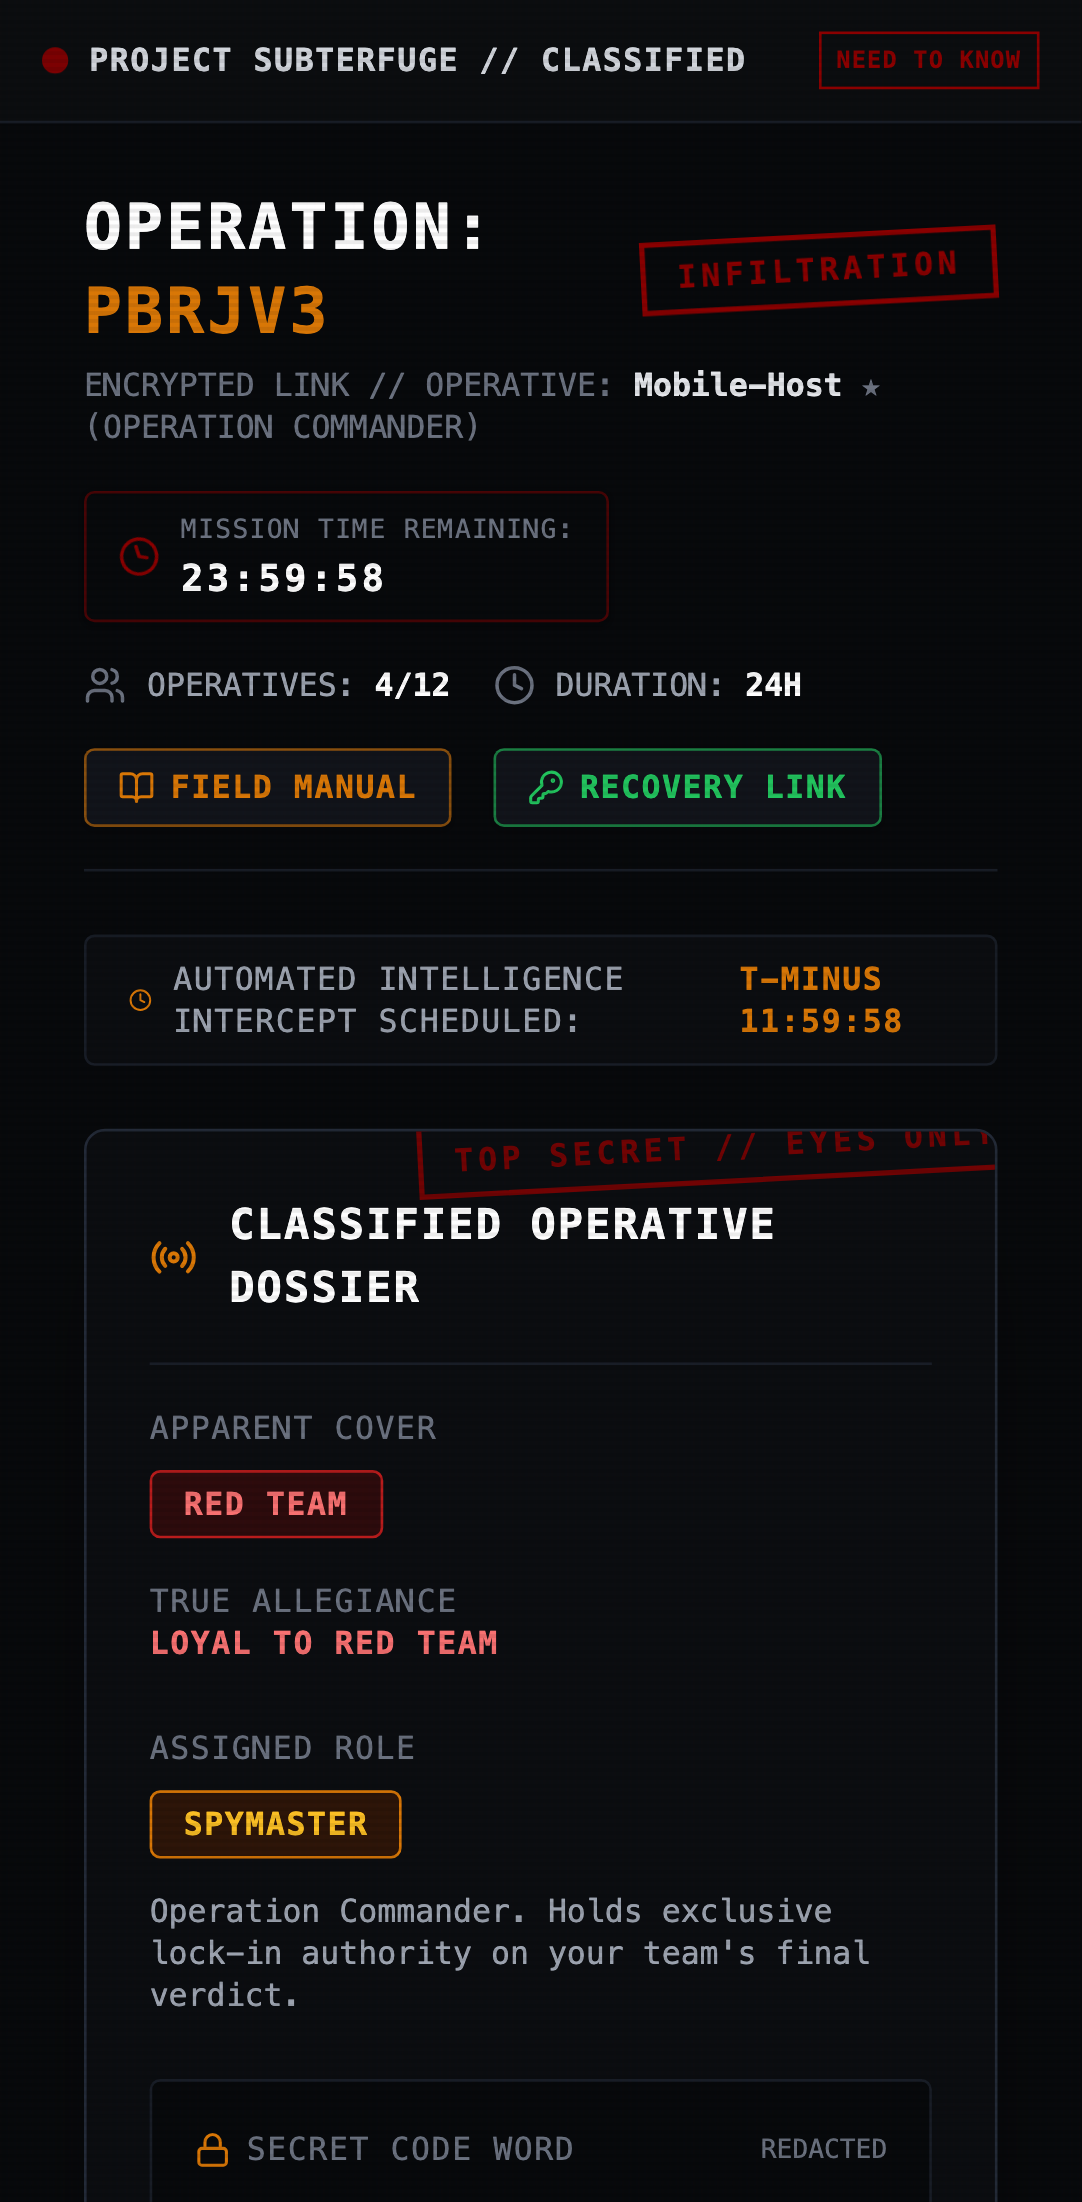
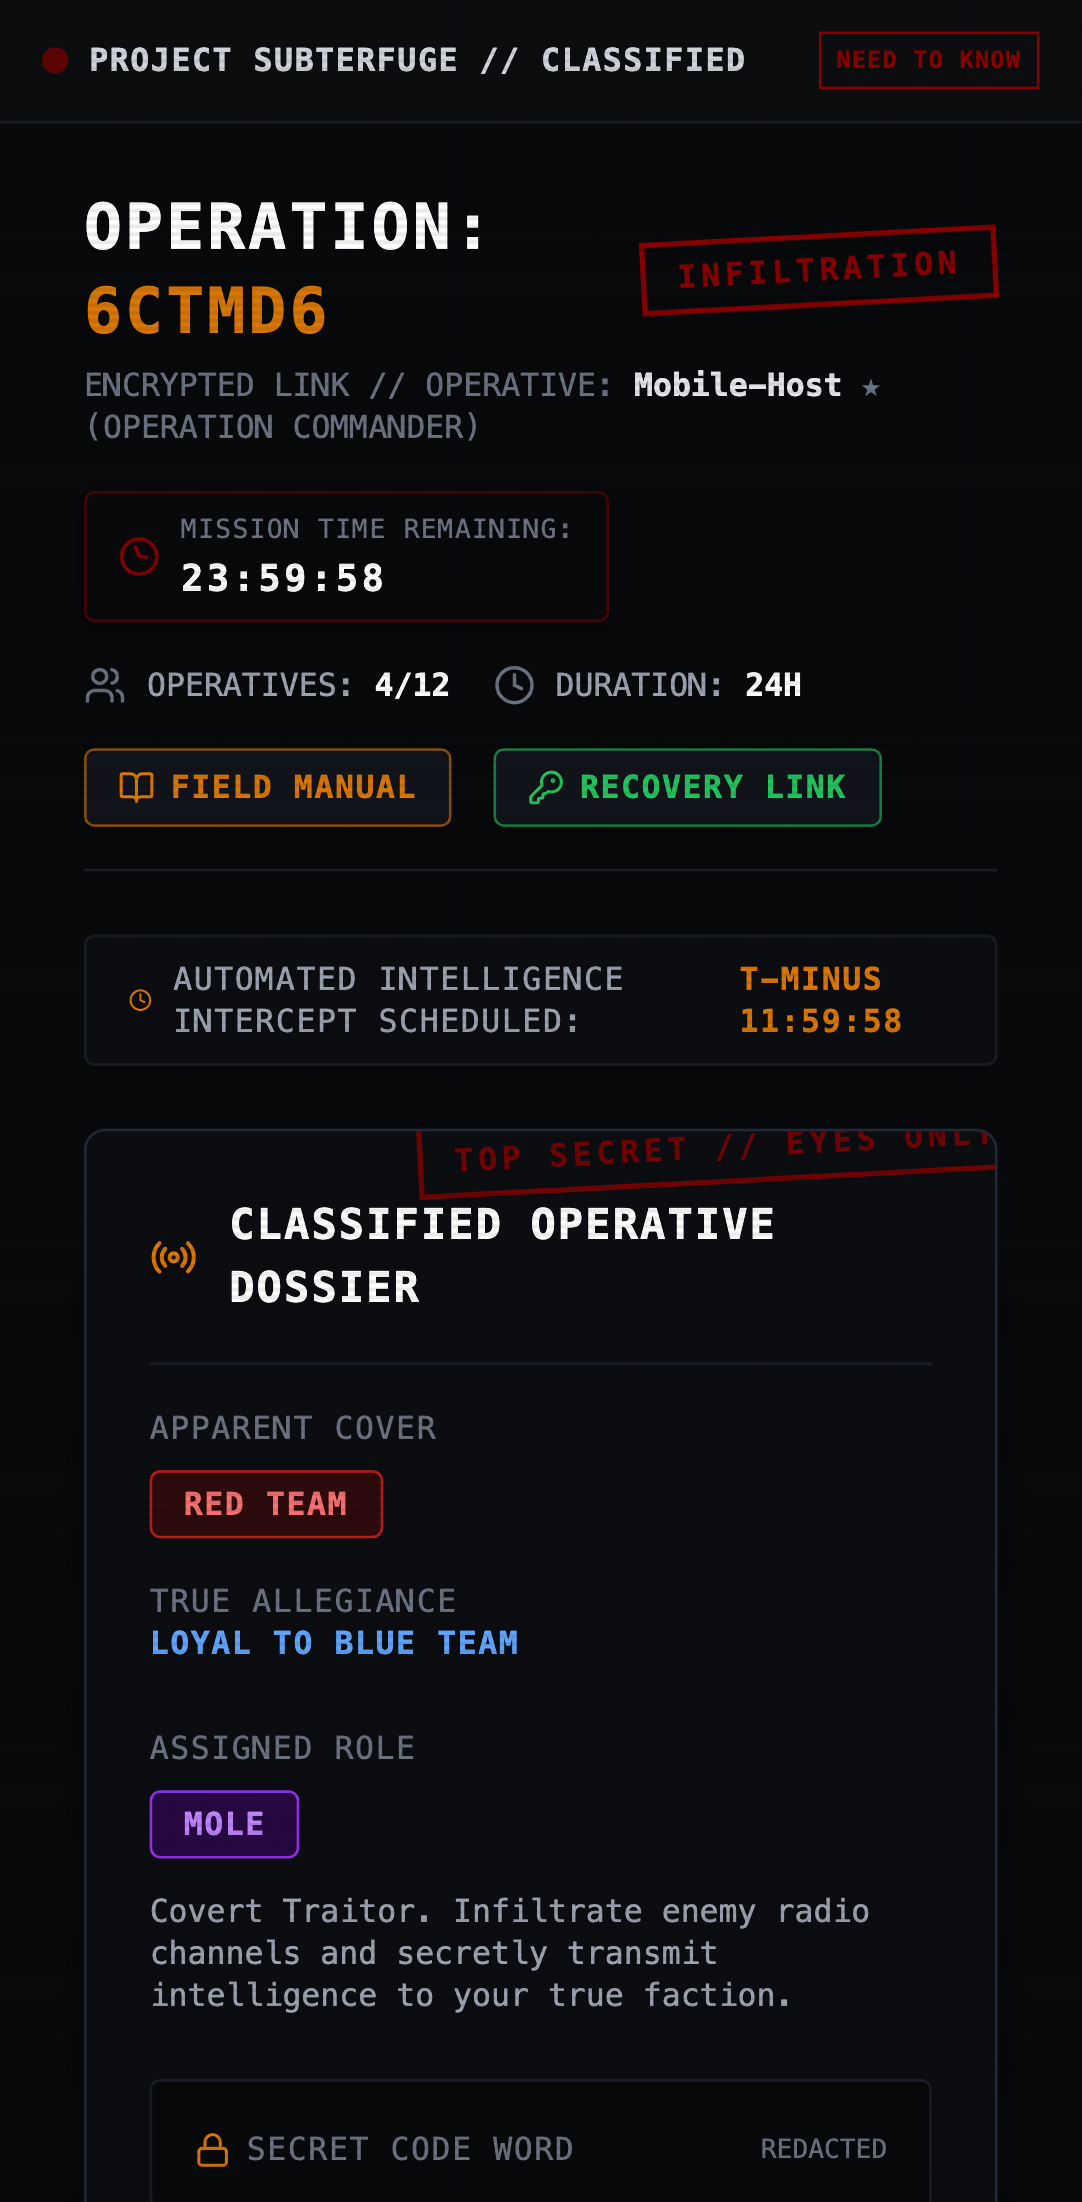
feat(mole): enable universal mole verification across opposing factions and restrict same-faction challenges

diff --git a/src/app/room/[code]/page.tsx b/src/app/room/[code]/page.tsx
@@ -2434,32 +2434,34 @@ export default function RoomPage() {
                   </div>
 
                   <div className="flex items-center gap-2">
-                    {selectedPeerId && gameState?.verifiedAssets?.includes(selectedPeerId) ? (
-                      <span
-                        id="confirmed-asset-badge"
-                        className="flex items-center gap-1 text-[11px] bg-emerald-950 border border-emerald-500 text-emerald-300 px-2.5 py-1.5 rounded font-bold tracking-wider uppercase"
-                      >
-                        <span className="w-2 h-2 rounded-full bg-emerald-400 animate-pulse"></span>
-                        CONFIRMED ASSET
-                      </span>
-                    ) : selectedPeerId && gameState?.challengeStatuses?.[selectedPeerId] === "PENDING" ? (
-                      <span
-                        id="challenge-pending-badge"
-                        className="text-[11px] bg-amber-950 border border-amber-500/50 text-amber-300 px-2.5 py-1.5 rounded uppercase tracking-wider font-mono animate-pulse"
-                      >
-                        AWAITING RESPONSE...
-                      </span>
-                    ) : (
-                      <button
-                        id="verify-credentials-btn"
-                        onClick={handleInitiateChallenge}
-                        disabled={isChallenging || !selectedPeerId}
-                        className="flex items-center gap-1 text-[11px] bg-carbon-900 hover:bg-carbon-800 text-classified-amber border border-classified-amber/50 px-2.5 py-1.5 rounded font-bold tracking-wider uppercase transition-colors min-h-[36px] active:scale-95 cursor-pointer"
-                      >
-                        <ShieldAlert className="w-3.5 h-3.5 text-classified-amber" />
-                        {isChallenging ? "CHALLENGING..." : "VERIFY OPERATIVE CREDENTIALS"}
-                      </button>
-                    )}
+                    {selectedPeerId && activePeer && activePeer.apparentTeam !== self.apparentTeam ? (
+                      gameState?.verifiedAssets?.includes(selectedPeerId) ? (
+                        <span
+                          id="confirmed-asset-badge"
+                          className="flex items-center gap-1 text-[11px] bg-emerald-950 border border-emerald-500 text-emerald-300 px-2.5 py-1.5 rounded font-bold tracking-wider uppercase"
+                        >
+                          <span className="w-2 h-2 rounded-full bg-emerald-400 animate-pulse"></span>
+                          CONFIRMED ASSET
+                        </span>
+                      ) : gameState?.challengeStatuses?.[selectedPeerId] === "PENDING" ? (
+                        <span
+                          id="challenge-pending-badge"
+                          className="text-[11px] bg-amber-950 border border-amber-500/50 text-amber-300 px-2.5 py-1.5 rounded uppercase tracking-wider font-mono animate-pulse"
+                        >
+                          AWAITING RESPONSE...
+                        </span>
+                      ) : (
+                        <button
+                          id="verify-credentials-btn"
+                          onClick={handleInitiateChallenge}
+                          disabled={isChallenging || !selectedPeerId}
+                          className="flex items-center gap-1 text-[11px] bg-carbon-900 hover:bg-carbon-800 text-classified-amber border border-classified-amber/50 px-2.5 py-1.5 rounded font-bold tracking-wider uppercase transition-colors min-h-[36px] active:scale-95 cursor-pointer"
+                        >
+                          <ShieldAlert className="w-3.5 h-3.5 text-classified-amber" />
+                          {isChallenging ? "CHALLENGING..." : "VERIFY OPERATIVE CREDENTIALS"}
+                        </button>
+                      )
+                    ) : null}
 
                     <button
                       id="burn-dm-btn"
@@ -2746,6 +2748,9 @@ export default function RoomPage() {
                   <li>
                     <strong className="text-white">50% Midpoint Theme Intercept:</strong> Halfway through the mission timeline, Central Command declassifies the{" "}
                     <span className="text-classified-amber font-bold">Secret Theme</span> uniting all genuine words. Cross-reference all claimed words against this theme to identify false leads and expose liars.
+                  </li>
+                  <li>
+                    <strong className="text-white">Universal Mole Verification:</strong> Any operative (Field Agent or Spymaster) can request clearance verification in 1-on-1 Direct Line chats with operatives on the opposing apparent team. If they are your faction&apos;s embedded double-agent, they can confirm their allegiance to establish an authenticated covert line and receive a permanent Confirmed Asset receipt.
                   </li>
                   <li>
                     <strong className="text-white">Verdict Deliberation & Scoring (+1 / 0):</strong> In the final 60-minute Verdict phase, propose candidate words on the collaborative board and upvote nominations. Teams score{" "}

diff --git a/tests/e2e/slice4-mole-protocol.spec.ts b/tests/e2e/slice4-mole-protocol.spec.ts
@@ -36,7 +36,8 @@ test.describe("Slice 4: Covert Mole Protocol & Targeted Clearance Handshake", ()
     // 2. Identify roles across operatives
     let redMoleIdx = -1;
     let redAgentIdx = -1;
-    let blueRequesterIdx = -1;
+    let blueAgentIdx = -1;
+    let otherBlueIdx = -1;
 
     for (let i = 0; i < 6; i++) {
       const dossier = await harness.getPlayerDossier(i);
@@ -44,26 +45,38 @@ test.describe("Slice 4: Covert Mole Protocol & Targeted Clearance Handshake", ()
         redMoleIdx = i;
       } else if (dossier.apparentTeam === "RED" && dossier.actualTeam === "RED" && dossier.role === "AGENT") {
         redAgentIdx = i;
-      } else if (dossier.apparentTeam === "BLUE" && dossier.actualTeam === "BLUE") {
-        blueRequesterIdx = i;
+      } else if (dossier.apparentTeam === "BLUE" && dossier.actualTeam === "BLUE" && dossier.role === "AGENT") {
+        blueAgentIdx = i;
       }
     }
 
     expect(redMoleIdx).toBeGreaterThanOrEqual(0);
     expect(redAgentIdx).toBeGreaterThanOrEqual(0);
-    expect(blueRequesterIdx).toBeGreaterThanOrEqual(0);
+    expect(blueAgentIdx).toBeGreaterThanOrEqual(0);
 
-    // 3. SUCCESSFUL HANDSHAKE: Blue Operative challenges Red Mole
+    // Find another operative on Blue apparent team
+    for (let i = 0; i < 6; i++) {
+      if (i !== blueAgentIdx) {
+        const dossier = await harness.getPlayerDossier(i);
+        if (dossier.apparentTeam === "BLUE") {
+          otherBlueIdx = i;
+          break;
+        }
+      }
+    }
+    expect(otherBlueIdx).toBeGreaterThanOrEqual(0);
+
+    // 3. SUCCESSFUL HANDSHAKE: Blue Field Agent (Non-Spymaster) challenges Red Mole on opposing cover
     // Blue operative switches to DM tab and selects Red Mole
-    await harness.switchTab(blueRequesterIdx, "DM");
-    await harness.selectDMPeer(blueRequesterIdx, redMoleIdx);
+    await harness.switchTab(blueAgentIdx, "DM");
+    await harness.selectDMPeer(blueAgentIdx, redMoleIdx);
 
-    // Initial state: Verify button is visible
-    const requesterPage = harness.sessions[blueRequesterIdx].page;
+    // Initial state: Verify button is visible for non-spymaster Field Agent
+    const requesterPage = harness.sessions[blueAgentIdx].page;
     await expect(requesterPage.locator("#verify-credentials-btn")).toBeVisible();
 
     // Blue operative initiates clearance challenge
-    await harness.initiateClearanceChallenge(blueRequesterIdx);
+    await harness.initiateClearanceChallenge(blueAgentIdx);
 
     // Blue operative sees awaiting response
     await expect(requesterPage.locator("#challenge-pending-badge")).toBeVisible({ timeout: 5000 });
@@ -72,7 +85,7 @@ test.describe("Slice 4: Covert Mole Protocol & Targeted Clearance Handshake", ()
     const molePage = harness.sessions[redMoleIdx].page;
     await expect(molePage.locator("#clearance-challenge-modal")).toBeVisible({ timeout: 10000 });
     await expect(molePage.locator("#clearance-challenge-modal")).toContainText(
-      harness.sessions[blueRequesterIdx].callsign
+      harness.sessions[blueAgentIdx].callsign
     );
 
     // Red Mole submits counter-signature
@@ -90,18 +103,18 @@ test.describe("Slice 4: Covert Mole Protocol & Targeted Clearance Handshake", ()
     await expect(molePage.locator("#confirmed-asset-badge")).not.toBeVisible();
 
     // Requester screen now has permanent cryptographic asset receipt
-    await harness.expectConfirmedAssetReceipt(blueRequesterIdx);
+    await harness.expectConfirmedAssetReceipt(blueAgentIdx);
     await expect(requesterPage.locator("#confirmed-asset-badge")).toBeVisible();
     await expect(requesterPage.locator("#confirmed-asset-receipt")).toContainText(
       harness.sessions[redMoleIdx].callsign
     );
 
-    // 4. DENIED HANDSHAKE: Blue Operative challenges Loyal Red Agent
-    await harness.selectDMPeer(blueRequesterIdx, redAgentIdx);
+    // 4. DENIED HANDSHAKE: Blue Operative challenges Loyal Red Agent on opposing cover
+    await harness.selectDMPeer(blueAgentIdx, redAgentIdx);
     await expect(requesterPage.locator("#verify-credentials-btn")).toBeVisible();
 
     // Initiate challenge to loyal agent
-    await harness.initiateClearanceChallenge(blueRequesterIdx);
+    await harness.initiateClearanceChallenge(blueAgentIdx);
 
     // Red Agent receives challenge modal
     const agentPage = harness.sessions[redAgentIdx].page;
@@ -116,5 +129,9 @@ test.describe("Slice 4: Covert Mole Protocol & Targeted Clearance Handshake", ()
     // Requester sees clearance denied badge
     await expect(requesterPage.locator("#clearance-denied-badge")).toBeVisible({ timeout: 10000 });
     await expect(requesterPage.locator("#confirmed-asset-badge")).not.toBeVisible();
+
+    // 5. PROHIBITED HANDSHAKE: Same-team operatives cannot request mole verification
+    await harness.selectDMPeer(blueAgentIdx, otherBlueIdx);
+    await expect(requesterPage.locator("#verify-credentials-btn")).not.toBeVisible();
   });
 });

diff --git a/src/lib/store/game-store.ts b/src/lib/store/game-store.ts
@@ -663,6 +663,10 @@ class GameStore {
       throw new Error("INVALID_TARGET: Cannot challenge self");
     }
 
+    if (caller.apparentTeam === target.apparentTeam) {
+      throw new Error("INVALID_TARGET: Mole verification challenges are only permitted between operatives on opposing factions");
+    }
+
     if (!data.challenges[upperCode]) {
       data.challenges[upperCode] = [];
     }

diff --git a/AGENTS.md b/AGENTS.md
@@ -85,9 +85,9 @@ Before modifying game logic, agents must understand the core rules:
    - Words are masked behind a **"Hold to Decrypt"** interaction to prevent shoulder-surfing.
    - At exactly 50% elapsed mission time, the system broadcasts the operational theme to all operatives.
 4. **Mole Verification Protocol (Screen-Share Safe):**
-   - Spymasters can issue a covert clearance challenge in 1-on-1 DMs.
+   - Any operative (Spymaster or Field Agent) can issue a covert clearance challenge in 1-on-1 DMs to operatives wearing opposing-team cover (`apparentTeam !== activePeer.apparentTeam`). Same-faction challenges are prohibited.
    - Genuine moles see a 3-second self-destruct toast (`"Operative Verified"`) with zero persistent UI traces.
-   - The Spymaster receives a persistent cryptographic receipt (`CONFIRMED ASSET`).
+   - The challenging operative receives a persistent cryptographic receipt (`CONFIRMED ASSET`).
 5. **Verdict & Scoring:**
    - Spymasters lock in guesses for all $N$ words and optionally indict an enemy mole.
    - Correct Word: $+1$ PT. Wrong Word: $0$ PTS (no penalty).
